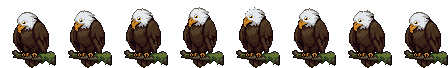
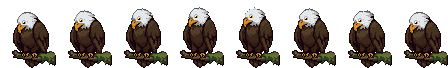
Fix the Study Eagle's celebration face and keep the beak's shading
The eye redraw missed a brow fragment on the wing-up celebration frame and
left a grey smudge where the model had squeezed the eye shut mid-flap. It
now clears a slightly wider brow area, and gives that frame an open eye
placed from the brow marks above it. Idle frame 0 stays a blink.

The shared 40-colour palette was flattening the beak's six oranges into
one, so the beak and eye colours now get their own 12-colour share.

diff --git a/scripts/build-eagle-sprites.py b/scripts/build-eagle-sprites.py
@@ -15,7 +15,8 @@ cut end sits against the right edge of the screen:
   public/eagle-pet.png        8 frames (played once per tap)
 
 The animated frames get one consistent eye drawn in (fix_eye), because the
-animation model's eyes sat under a low, slanted brow that looked sad.
+animation model's eyes sat under a low, slanted brow that looked sad. The beak and
+eye colours get their own slice of the palette so they keep their shading.
 
 Run: python3 scripts/build-eagle-sprites.py
 """
@@ -181,19 +182,32 @@ LOCK = 61 + dy
 for f in idle80 + celebrate80 + pet80 + sleep80:
     f[LOCK:] = awake80[LOCK:]
 
-# one shared palette for all four art sources
+# one shared palette for all four art sources. The beak and eyes (warm oranges and
+# yellows) get their own share of colours, so a few hundred beak pixels are not
+# outvoted by thousands of feather pixels and flattened into one orange.
+def is_warm(rgb):
+    rgb = rgb.astype(int)
+    return (rgb[..., 0] > rgb[..., 2] + 60) & (rgb[..., 1] > rgb[..., 2] + 20)
+
+
+def kmeans(px, k, seed):
+    cent = px[np.random.default_rng(seed).choice(len(px), k, replace=False)]
+    for _ in range(30):
+        lab = ((px[:, None] - cent[None]) ** 2).sum(2).argmin(1)
+        cent = np.array([px[lab == j].mean(0) if (lab == j).any() else cent[j] for j in range(k)])
+    return cent.round().clip(0, 255).astype(np.uint8)
+
+
 everything = sleep80 + [awake80] + idle80 + celebrate80 + pet80
 opaque = np.concatenate([f[f[..., 3] > 0][:, :3].astype(float) for f in everything])
-cent2 = opaque[np.random.default_rng(2).choice(len(opaque), 40, replace=False)]
-for _ in range(30):
-    lab = ((opaque[:, None] - cent2[None]) ** 2).sum(2).argmin(1)
-    cent2 = np.array([opaque[lab == k].mean(0) if (lab == k).any() else cent2[k] for k in range(len(cent2))])
-cent2 = cent2.round().clip(0, 255).astype(np.uint8)
+warm_px = is_warm(opaque)
+cent2 = np.concatenate([kmeans(opaque[~warm_px], 40, 2), kmeans(opaque[warm_px], 12, 2)])
 
 
 # moss greens only belong on the branch: above it, a feather may never snap to green
 c2 = cent2.astype(int)
 GREEN = (c2[:, 1] > c2[:, 0] + 8) & (c2[:, 1] > c2[:, 2] + 8)
+WARM = np.arange(len(cent2)) >= 40
 
 
 def snap2(f):
@@ -201,6 +215,7 @@ def snap2(f):
     d = ((f[..., None, :3].astype(int) - c2[None, None]) ** 2).sum(-1)
     rows = np.arange(80)[:, None, None]
     d = np.where((rows < LOCK - 2) & GREEN[None, None], 1 << 30, d)
+    d = np.where(is_warm(f[..., :3])[..., None] != WARM[None, None], 1 << 30, d)
     f[a, :3] = cent2[d.argmin(-1)][a]
     f[..., 3] = np.where(a, 255, 0)
     return f
@@ -238,23 +253,32 @@ def eye_clusters(f):
     return out
 
 
-def fix_eye(f):
+def fix_eye(f, blink=False):
     """Redraw the open eye: round yellow eye, dark pupil, glint, and a curved brow
-    (an arch above the eye instead of a low slanted line). Closed eyes are left alone."""
+    (an arch above the eye instead of a low slanted line). A blink frame is left alone;
+    any other frame whose eye the model squeezed shut (mid wing-flap) gets an open eye,
+    placed from the two old brow marks that sit above it in every frame."""
+    if blink:
+        return f
     f = f.copy(); rgb = f[..., :3].astype(int)
     clusters = eye_clusters(f)
     dark = lambda c: sum(1 for y, x in c if rgb[y, x].sum() < 120)
     eyes = [c for c in clusters if dark(c) > 0 and len(c) <= 24]   # eye, sometimes joined to its brow
-    if not eyes:
-        return f                                   # blink / squint frame
-    eye = max(eyes, key=dark)
+    if eyes:
+        eye = max(eyes, key=dark)
+        dk = [(y, x) for y, x in eye if rgb[y, x].sum() < 120]
+        py = min(y for y, x in dk); px = round(np.mean([x for y, x in dk]))
+    else:
+        marks = [c for c in clusters if len(c) == 2 and c[0][0] == c[1][0]]
+        top = min(c[0][0] for c in marks)
+        xs = [x for c in marks if c[0][0] == top for y, x in c]
+        py, px = top + 3, round(np.mean(xs))
+        eye = [(py + dy, px + dx) for dy in (0, 1) for dx in (-1, 0, 1)]
     ey = [y for y, x in eye]; ex = [x for y, x in eye]
-    dk = [(y, x) for y, x in eye if rgb[y, x].sum() < 120]
-    py = min(y for y, x in dk); px = round(np.mean([x for y, x in dk]))
     # clear the old eye, the slanted brow mark above it and the grey streak behind it
     for c in clusters:
         cy = [y for y, x in c]; cx = [x for y, x in c]
-        brow = max(cy) <= max(ey) and min(cy) >= min(ey) - 5 and min(cx) >= min(ex) - 5 and max(cx) <= max(ex) + 1
+        brow = max(cy) <= max(ey) and min(cy) >= min(ey) - 5 and min(cx) >= min(ex) - 5 and max(cx) <= max(ex) + 3
         cheek = max(cx) < min(ex) and min(cx) >= min(ex) - 10 and min(ey) - 2 <= min(cy) <= max(ey) + 3
         if c is eye or (dark(c) == 0 and (brow or cheek)):
             for y, x in c: f[y, x, :3] = HEAD_WHITE
@@ -270,7 +294,8 @@ def fix_eye(f):
     return f
 
 
-idle80, celebrate80, pet80 = ([fix_eye(f) for f in group] for group in (idle80, celebrate80, pet80))
+idle80 = [fix_eye(f, blink=i == 0) for i, f in enumerate(idle80)]   # idle frame 0 is the blink
+celebrate80, pet80 = ([fix_eye(f) for f in group] for group in (celebrate80, pet80))
 
 # one shared frame: starts at the branch's cut end (wing tips past it go "off screen")
 STUB_X = 16 + 1
